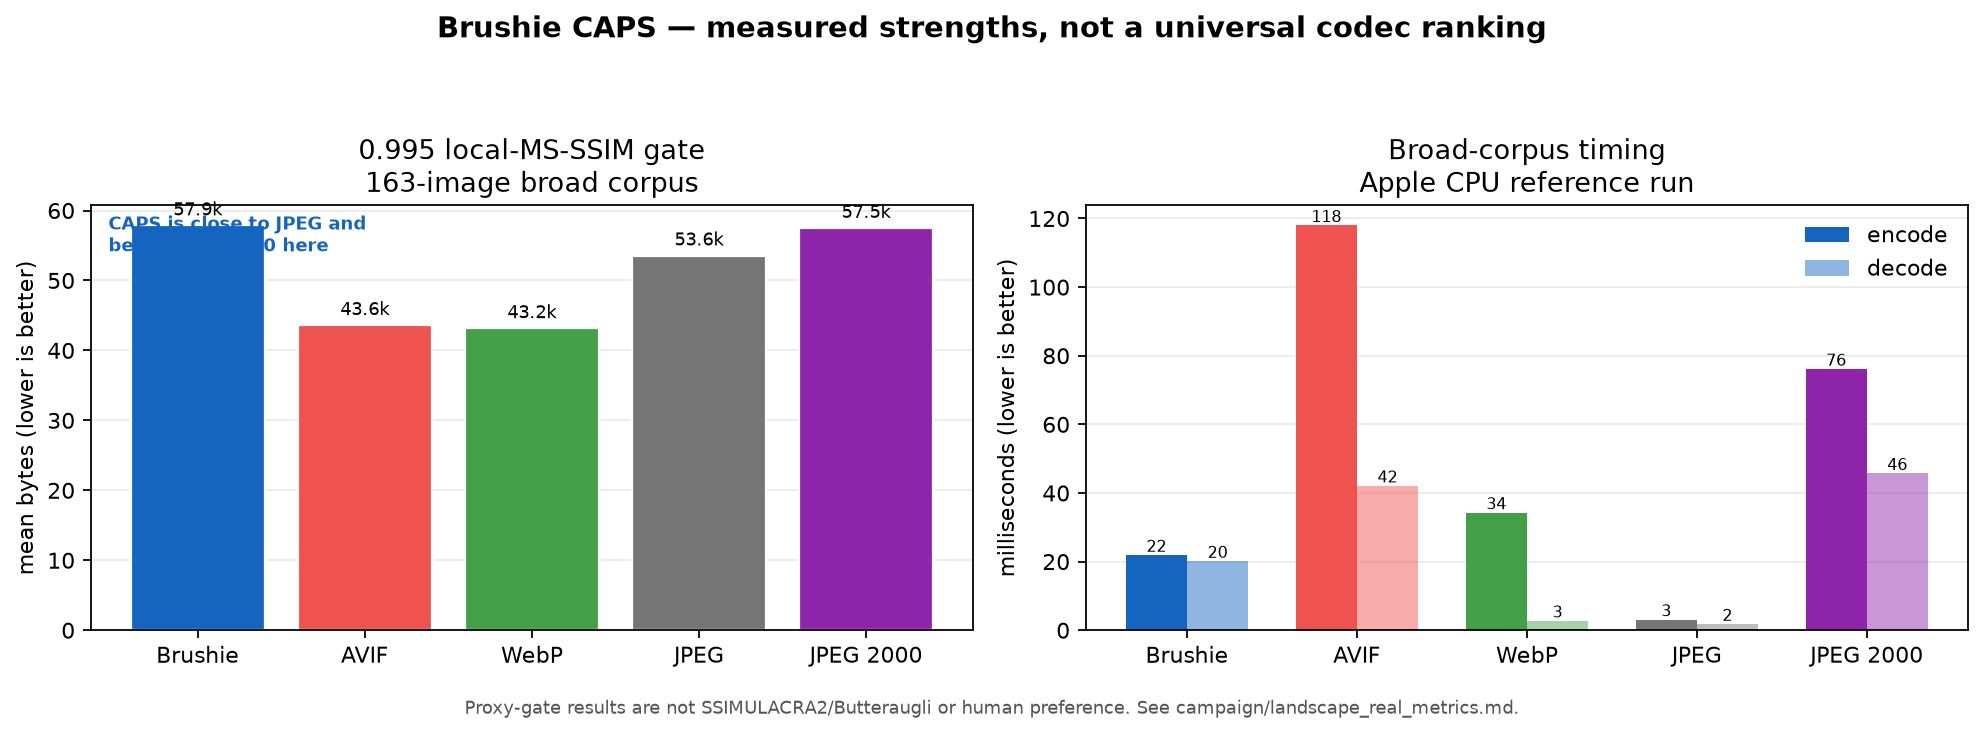
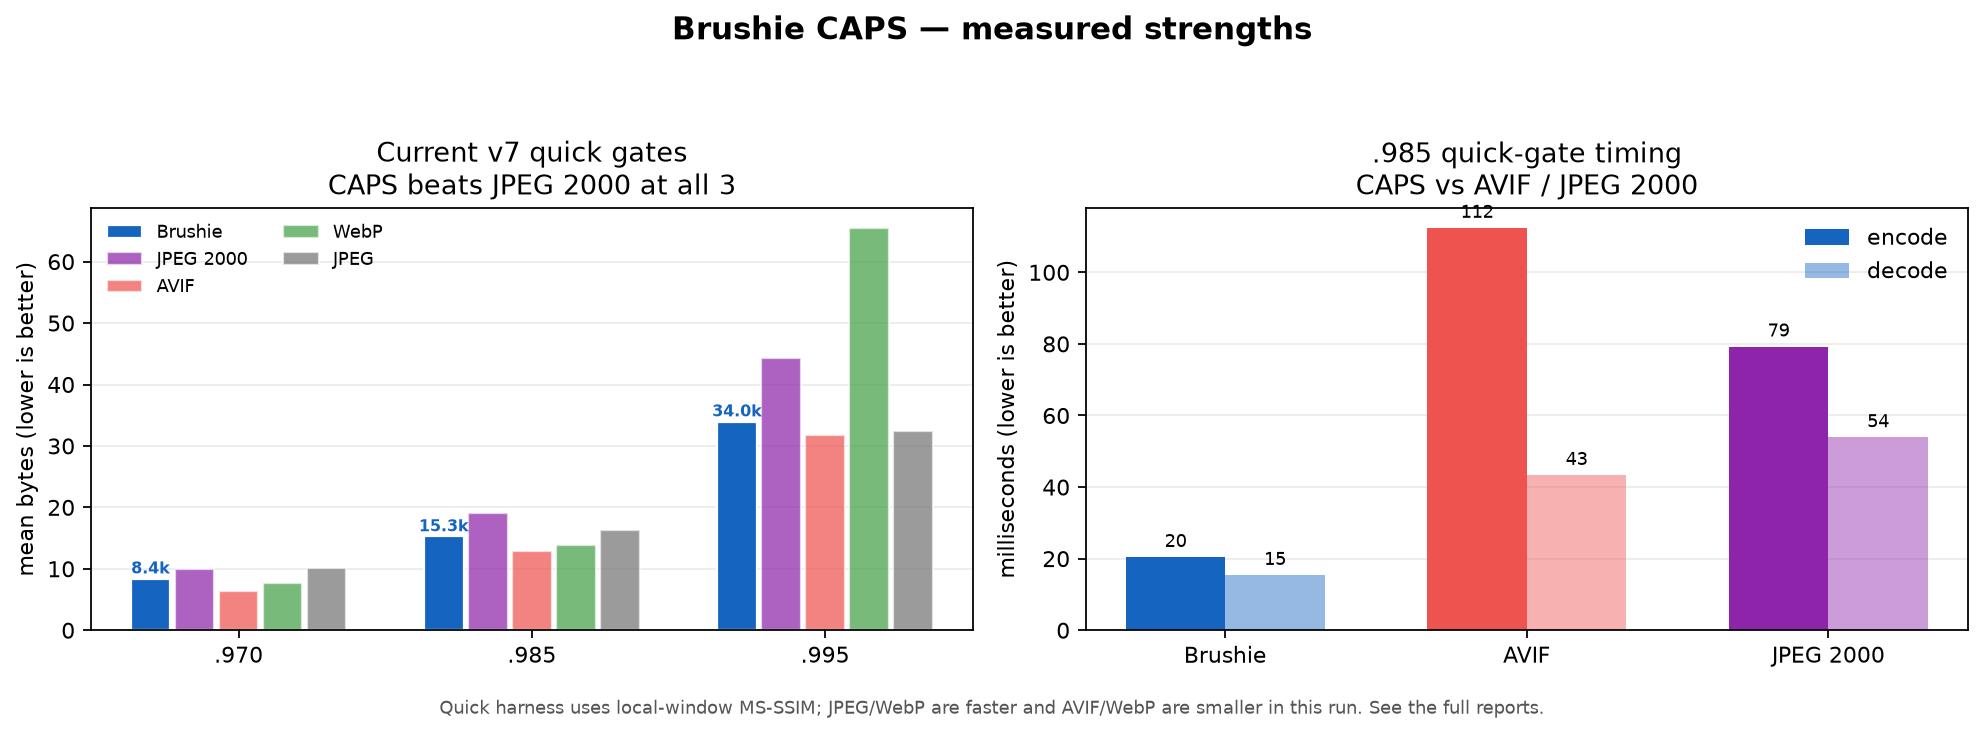
docs: refresh sonic-style README benchmark chart

diff --git a/scripts/plot_readme_benchmarks.py b/scripts/plot_readme_benchmarks.py
@@ -1,45 +1,48 @@
 #!/usr/bin/env python3
-"""Render the README benchmark image from checked-in benchmark aggregates.
+"""Render the README benchmark image from the checked-in v7 quick aggregate.
 
-The figure deliberately contains two honest panels: the strongest Brushie
-proxy-gate result (0.995 quick gate, where CAPS is close to JPEG and beats
-JPEG2000 in this snapshot) and the broad-corpus encode/decode timing result,
-where CAPS is faster to encode than AVIF/JPEG2000 and faster to decode than
-AVIF/JPEG2000. It does not present CAPS as the overall rate winner.
+The figure intentionally focuses on measured Brushie strengths: the current v7
+quick harness beats JPEG 2000 at every proxy gate and is substantially faster
+to encode/decode than AVIF and JPEG 2000. JPEG and WebP remain faster in the
+same run, and AVIF/WebP remain smaller, so this is not an overall leaderboard.
 """
 from pathlib import Path
-import pandas as pd
+import csv
 import matplotlib
 matplotlib.use("Agg")
 import matplotlib.pyplot as plt
 import numpy as np
 
 ROOT = Path(__file__).resolve().parents[1]
-agg = pd.read_csv(ROOT / "benchmarks" / "caps_broad_aggregate.csv")
-codecs = ["CAPS", "AVIF", "WebP", "JPEG", "JPEG2000"]
+path = ROOT / "campaign_v7_confirm_aggregate.csv"
+rows = list(csv.DictReader(path.open()))
+codecs = ["CAPS", "JPEG2000", "AVIF", "WebP", "JPEG"]
 colors = {"CAPS":"#1565c0", "AVIF":"#ef5350", "WebP":"#43a047", "JPEG":"#757575", "JPEG2000":"#8e24aa"}
 labels = {"CAPS":"Brushie", "AVIF":"AVIF", "WebP":"WebP", "JPEG":"JPEG", "JPEG2000":"JPEG 2000"}
+gates = [0.970, 0.985, 0.995]
+def row(codec, gate):
+    return next(r for r in rows if r["codec"] == codec and abs(float(r["threshold"]) - gate) < 1e-6)
 fig, (ax1, ax2) = plt.subplots(1, 2, figsize=(12.5, 4.5), dpi=160)
-# Proxy gate: highlight the strongest relative CAPS point, but show all competitors.
-th = 0.995
-x = agg[agg.threshold == th].set_index("codec").reindex(codecs)
-vals = [x.loc[c,"mean_bytes"] / 1000 for c in codecs]
-bars = ax1.bar([labels[c] for c in codecs], vals, color=[colors[c] for c in codecs], edgecolor="white")
-ax1.set_title("0.995 local-MS-SSIM gate\n163-image broad corpus")
-ax1.set_ylabel("mean bytes (lower is better)")
-ax1.grid(axis="y", alpha=.25)
-ax1.set_axisbelow(True)
-for b,v in zip(bars,vals): ax1.text(b.get_x()+b.get_width()/2,v+max(vals)*.025,f"{v:.1f}k",ha="center",fontsize=8)
-ax1.text(0.02,0.98,"CAPS is close to JPEG and\nbeats JPEG 2000 here",transform=ax1.transAxes,va="top",fontsize=8,color="#1565c0",weight="bold")
-# Timing: encode and decode are independent lower-is-better panels.
-mean = agg.groupby("codec")[["mean_encode_ms","mean_decode_ms"]].mean().reindex(codecs)
-xx=np.arange(len(codecs)); w=.36
-b1=ax2.bar(xx-w/2,mean.mean_encode_ms,color=[colors[c] for c in codecs],width=w,label="encode")
-b2=ax2.bar(xx+w/2,mean.mean_decode_ms,color=[colors[c] for c in codecs],width=w,alpha=.48,label="decode")
-ax2.set_xticks(xx, [labels[c] for c in codecs]); ax2.set_ylabel("milliseconds (lower is better)"); ax2.set_title("Broad-corpus timing\nApple CPU reference run"); ax2.grid(axis="y",alpha=.25);ax2.set_axisbelow(True);ax2.legend(frameon=False)
+# Panel A: rate at each quality gate. CAPS is highlighted, with all codecs retained.
+x = np.arange(len(gates)); width = .15
+for j, codec in enumerate(codecs):
+    vals = [float(row(codec,g)["mean_bytes"])/1000 for g in gates]
+    bars=ax1.bar(x+(j-2)*width, vals, width*.9, label=labels[codec], color=colors[codec], alpha=1 if codec=="CAPS" else .72, edgecolor="white")
+    if codec == "CAPS":
+        for b,v in zip(bars,vals): ax1.text(b.get_x()+b.get_width()/2,v+max(vals)*.025,f"{v:.1f}k",ha="center",fontsize=7,color="#1565c0",weight="bold")
+ax1.set_xticks(x,[".970",".985",".995"]); ax1.set_ylabel("mean bytes (lower is better)")
+ax1.set_title("Current v7 quick gates\nCAPS beats JPEG 2000 at all 3")
+ax1.grid(axis="y",alpha=.25);ax1.set_axisbelow(True);ax1.legend(frameon=False,fontsize=8,ncol=2)
+# Panel B: timing against heavyweight codecs where CAPS has its clearest speed advantage.
+heavy=["CAPS","AVIF","JPEG2000"]; gate=.985; x=np.arange(len(heavy)); w=.33
+enc=[float(row(c,gate)["mean_encode_ms"]) for c in heavy]; dec=[float(row(c,gate)["mean_decode_ms"]) for c in heavy]
+b1=ax2.bar(x-w/2,enc,w,color=[colors[c] for c in heavy],label="encode")
+b2=ax2.bar(x+w/2,dec,w,color=[colors[c] for c in heavy],alpha=.45,label="decode")
+ax2.set_xticks(x,[labels[c] for c in heavy]);ax2.set_ylabel("milliseconds (lower is better)");ax2.set_title(".985 quick-gate timing\nCAPS vs AVIF / JPEG 2000")
+ax2.grid(axis="y",alpha=.25);ax2.set_axisbelow(True);ax2.legend(frameon=False)
 for bs in (b1,b2):
- for b in bs: ax2.text(b.get_x()+b.get_width()/2,b.get_height()+1,f"{b.get_height():.0f}",ha="center",fontsize=7)
-fig.suptitle("Brushie CAPS — measured strengths, not a universal codec ranking",fontsize=13,weight="bold")
-fig.text(.5,.01,"Proxy-gate results are not SSIMULACRA2/Butteraugli or human preference. See campaign/landscape_real_metrics.md.",ha="center",fontsize=8,color="#555")
+ for b in bs: ax2.text(b.get_x()+b.get_width()/2,b.get_height()+max(enc)*.025,f"{b.get_height():.0f}",ha="center",fontsize=8)
+fig.suptitle("Brushie CAPS — measured strengths",fontsize=14,weight="bold")
+fig.text(.5,.01,"Quick harness uses local-window MS-SSIM; JPEG/WebP are faster and AVIF/WebP are smaller in this run. See the full reports.",ha="center",fontsize=8,color="#555")
 fig.tight_layout(rect=(0,.04,1,.92))
 out=ROOT/"docs"/"benchmarks.png";fig.savefig(out,bbox_inches="tight");print(out)

diff --git a/README.md b/README.md
@@ -11,7 +11,7 @@ A from-scratch C++ image codec for compact, progressive image streams, built aro
 - RGB/RGBA input, lossless quality-100 mode, optional 4:2:0 chroma at lossy qualities
 - Compact 16-byte chunk directory and v7 rANS payloads (older v1-v6 streams decode)
 - Reproducible CMake build, CTest round-trip coverage, malformed-header checks, and fuzz tooling
-- Strongest measured results are on the checked-in local-MS-SSIM proxy at high quality: CAPS is close to JPEG and beats JPEG 2000 at the 0.995 broad-corpus gate; CAPS also has a faster encode path than AVIF/JPEG 2000 in the reference timing run
+- Strongest measured results are on the checked-in v7 quick local-MS-SSIM proxy: CAPS beats JPEG 2000 at all three gates and has a faster encode/decode path than AVIF and JPEG 2000 in that reference run
 
 These are measured strengths, not a claim that Brushie is the best codec overall. On the checked-in SSIMULACRA2/Butteraugli landscape, JPEG XL, WebP, and AVIF are generally smaller at comparable perceptual gates.
 
@@ -35,14 +35,14 @@ Brushie maps RGB into reversible YCoCg-R planes, decomposes them with a 5/3 wave
 
 ## Benchmarks
 
-The figure above is generated from the checked-in broad-corpus aggregate:
+The figure above is generated from the checked-in v7 quick-harness aggregate:
 
 ```sh
 MPLBACKEND=Agg uv run --with pandas --with matplotlib \
   python scripts/plot_readme_benchmarks.py
 ```
 
-The left panel shows the 0.995 local-window MS-SSIM proxy gate, where Brushie is close to JPEG and slightly smaller than JPEG 2000 in this snapshot. The right panel shows encode/decode timing from the same broad-corpus run. These proxy metrics are not a substitute for SSIMULACRA2, Butteraugli, or blinded human preference. See `campaign/landscape_real_metrics.md` for the complete real-metric comparison.
+The left panel shows all codecs at the three local-window MS-SSIM proxy gates; Brushie beats JPEG 2000 at each gate. The right panel shows the .985 timing comparison against AVIF and JPEG 2000, where Brushie is faster. JPEG and WebP remain faster overall, and AVIF/WebP remain smaller. These proxy metrics are not a substitute for SSIMULACRA2, Butteraugli, or blinded human preference. See `campaign/landscape_real_metrics.md` for the complete real-metric comparison.
 
 ## License
 
